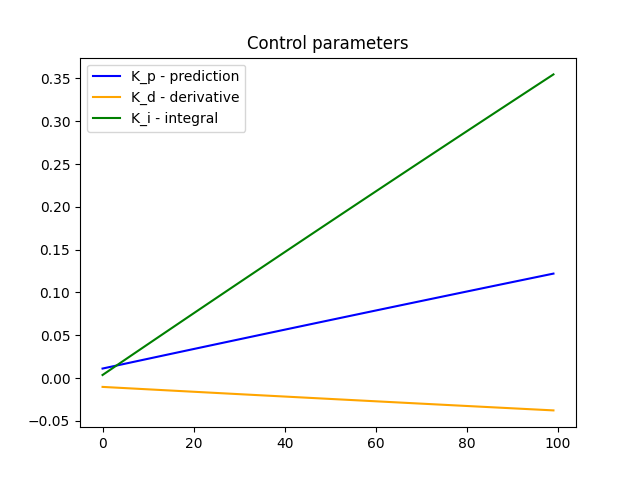
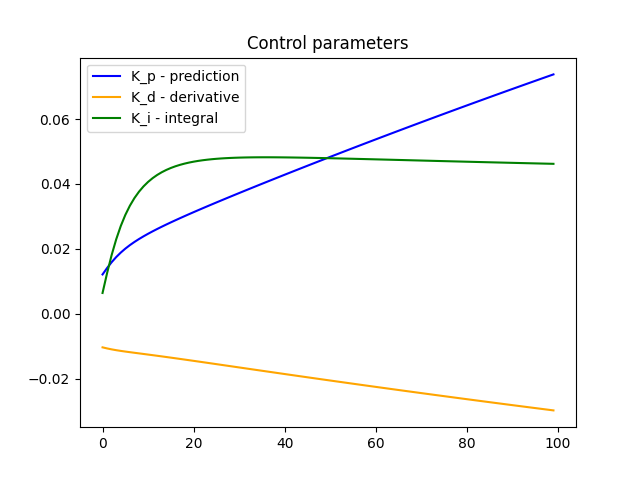
removed unused parameters

diff --git a/controller/PIDController.py b/controller/PIDController.py
@@ -3,21 +3,9 @@ import random
 import matplotlib.pyplot as plt
 from dotenv import load_dotenv
 from jax.numpy import clip
+from os import environ
 
 from controller.GeneralController import GeneralController
-
-# random initialization of the parameters
-K_p = random.uniform(0, 1)
-K_d = random.uniform(0, 1)
-K_i = random.uniform(0, 1)
-
-
-params_initial_PID = {
-    "K_p": K_p,  # blue
-    "K_d": K_d,  # orange
-    "K_i": K_i,  # green
-}
-
 
 class PIDController(GeneralController):
     """PID controller class"""
@@ -34,9 +22,9 @@ class PIDController(GeneralController):
         super().__init__(learning_rate)
 
         self.params = {
-            "K_p": 0.01,  # blue
-            "K_d": -0.01,  # orange
-            "K_i": 0.0,  # green
+            "K_p": float(environ.get("K_P")),  # blue
+            "K_d": float(environ.get("K_D")),  # orange
+            "K_i": float(environ.get("K_I")),  # green
         }
 
         self.track_K_p = []

diff --git a/__main__.py b/__main__.py
@@ -15,7 +15,7 @@ from tqdm import tqdm
 from controller import NNController, PIDController
 
 # model imports
-from plant import BathtubModel, CournotCompetition, HeatExchanger
+from Plant import BathtubModel, CournotCompetition, HeatExchanger
 
 # utils imports
 from utils import generate_random_values
@@ -148,5 +148,5 @@ class CONSYS:
 
 if __name__ == "__main__":
     load_dotenv()
-    system = CONSYS(PIDController, BathtubModel)
+    system = CONSYS(PIDController, CournotCompetition)
     error_history = system.run()

diff --git a/controller/NNController.py b/controller/NNController.py
@@ -38,7 +38,7 @@ class NNController(GeneralController):
         )
 
         # self.activation = nn.sigmoid
-        # self.activation = nn.relu
+        #self.activation = nn.relu
         # self.activation = nn.tanh
         self.activation = lambda x: x
 
